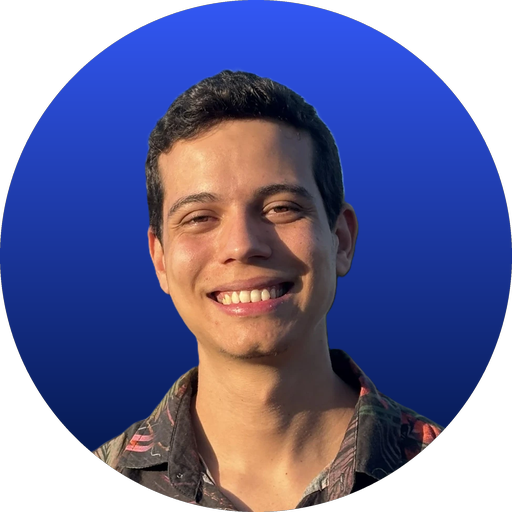
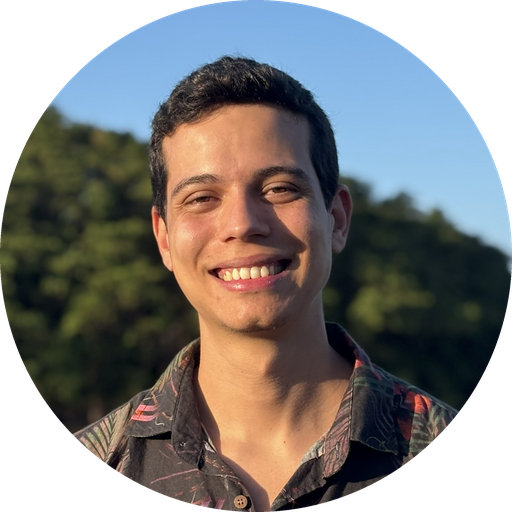
feat: use full-resolution profile photo with background
The previous photo was downscaled before optimization, only had variants
up to 547px (too small for retina screens) and was upscaled with a CSS
transform, which made it blurry. Use the original 1790px JPEG, generate
variants up to 1024px at quality 90 and render it without scaling.
Regenerate the Open Graph images and avatar from the new photo.

diff --git a/README.md b/README.md
@@ -32,7 +32,7 @@ npm run test:e2e     # Playwright (rode depois do build)
 
 Todo o conteúdo fica em [`src/data/profile.ts`](src/data/profile.ts): experiências, projetos, skills, formação e links. Os textos de interface ficam em [`src/i18n/ui.ts`](src/i18n/ui.ts). Os componentes cuidam só do layout.
 
-- **Foto:** `src/assets/face.webp` (fundo transparente; é otimizada no build)
+- **Foto:** `src/assets/face.jpg` (quadrada, em alta resolução; o Astro gera versões otimizadas no build)
 - **Currículos:** `public/cv/Emanuel_Umbelino_PT.pdf` e `public/cv/Emanuel_Umbelino_EN.pdf`
 - **Badge "Aberto a oportunidades":** `profile.openToWork`
 - **Imagens de compartilhamento:** `public/og-pt.png`, `public/og-en.png` (1200×630)
